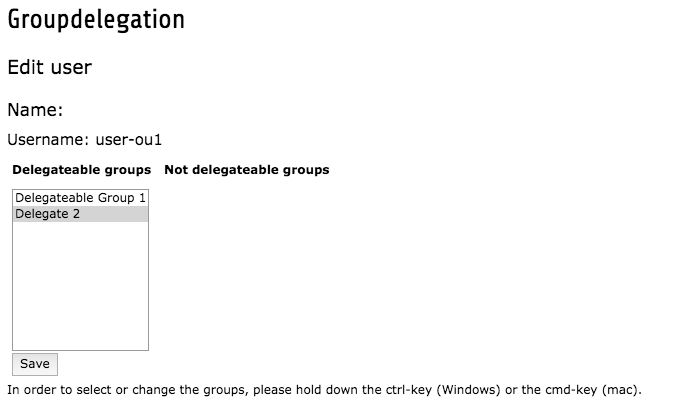
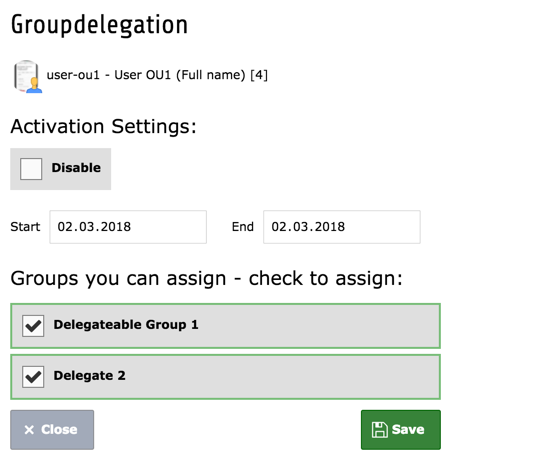
[TASK] Improve documentation
- updated screenshots
- added small section about the new feature
- updated section 'howto contribute'

Resolves #9

diff --git a/Documentation/User/Index.rst b/Documentation/User/Index.rst
@@ -17,7 +17,7 @@ Using groupdelegation as Sub Admin
 If you are part of a sub-admin group, you have an additional icon, next to your user setting.
 
 .. image:: /Images/subadmin_menu.png
-   :width: 750px
+   :width: 200px
 
 Mind that how you become a sub admin is explained in the administration part.
 
@@ -25,10 +25,15 @@ After clicking on "Groupdelegation", you will see a list of users, which you can
 every user you see the be-groups he/she belongs to. They are divided into those you are allowed to remove and those you
 are not allowed remove.
 
-Just click the pen in front of the user name, when you want to edit it.
+.. image:: /Images/subadmin_userlist.png
+   :width: 750px
 
-On the following page just select or deselect the groups you want. Clicking the Save! button will add the selected
-groups to the user and remove the not selected ones.
+Just click on the avatar or the button with the user name, when you want to edit it.
+
+At the top of the following page, the user can be disabled and the start- and stoptime can be set.
+
+Below is a list with all delegatable the groups. They can be added by activating the checkbox before.
+Clicking the Save! button will add the selected groups to the user and remove the not selected ones.
 
 .. image:: /Images/subadmin_edit-user.png
    :width: 750px

diff --git a/Documentation/Administrator/Index.rst b/Documentation/Administrator/Index.rst
@@ -82,13 +82,17 @@ Create Sub-Admin-Groups
 In order to make a BE user group a sub-admin group, you need to check the checkbox "Backend Group is Sub Admin Group"
 on the tab "extended".
 
-If you do not ignore OUs, you will have two more settings available. If not, the OU setting is not visible.
+If you do not ignore OUs, you will have three more settings available. If not, the OU setting is not visible.
 
-**1) Delegateable Groups**
+**1) SubAdmin can activate backend user**
+
+If this checkbox is activated, a sub admin can also activate a be user and set start and stop time for the account.
+
+**2) Delegateable Groups**
 
 This defines the list of backend groups, which can be assigned by the sub-admin to the BE users of his OU.
 
-**2) Editable Organisational Units**
+**3) Editable Organisational Units**
 
 This defines the OUs for which the sub-admin can change the backend permissions.
 

diff --git a/Documentation/HowToContribute.rst b/Documentation/HowToContribute.rst
@@ -19,6 +19,7 @@ Contribution rules
 - `PSR-2`_ coding guidelines are enforced
 - Commit message complies to the `format used by TYPO3`_ (the "releases:" line is useless here)
 - Unique logical change per patch
+- The commit message must refer to the ticket number on github like `Resolves #9`
 
 .. _bug tracker: https://github.com/in2code-de/groupdelegation/issues
 .. _PSR-2: http://www.php-fig.org/psr/psr-2/
